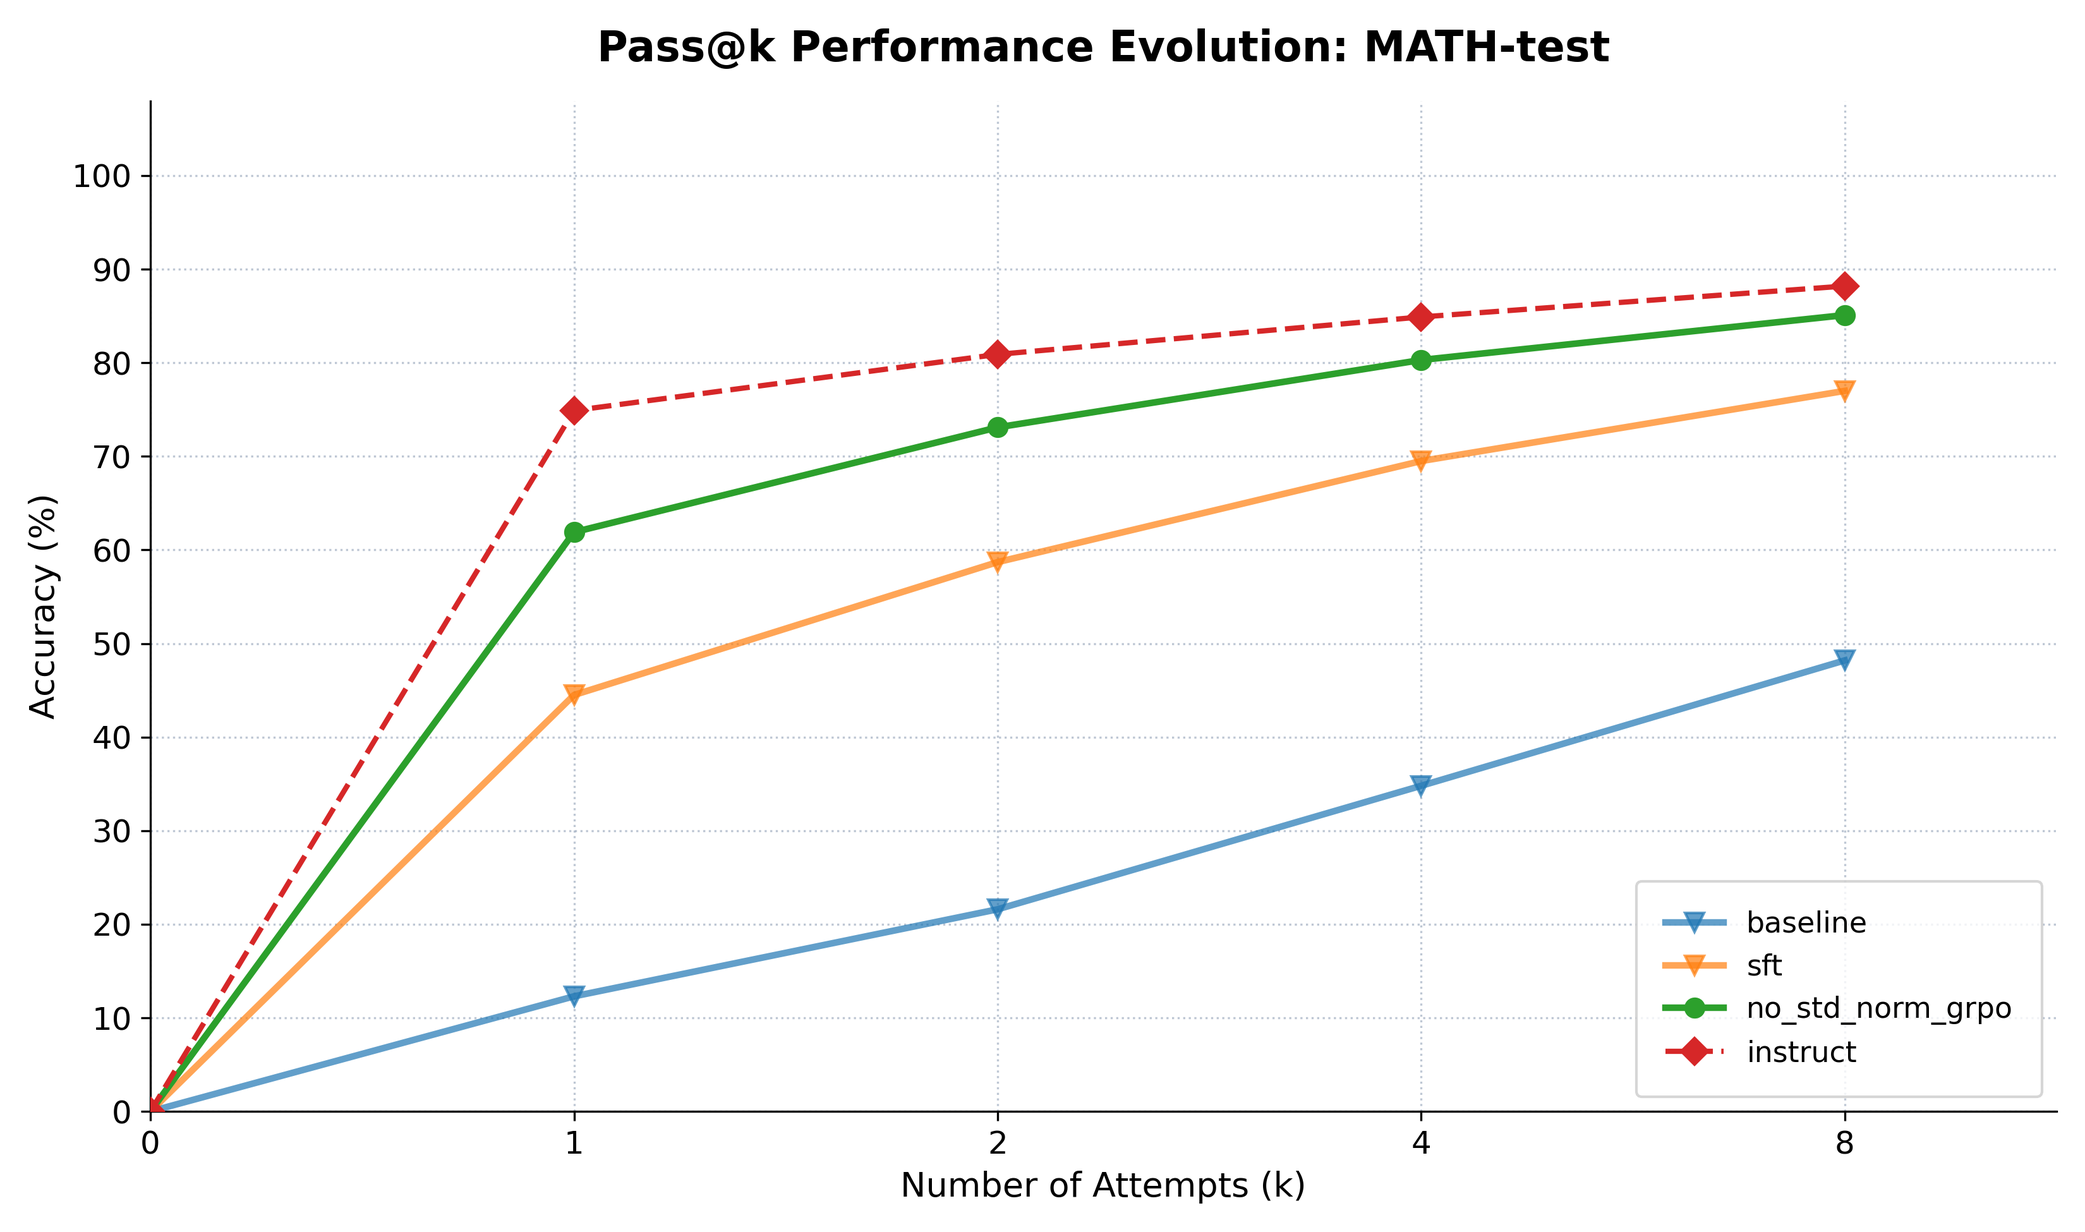
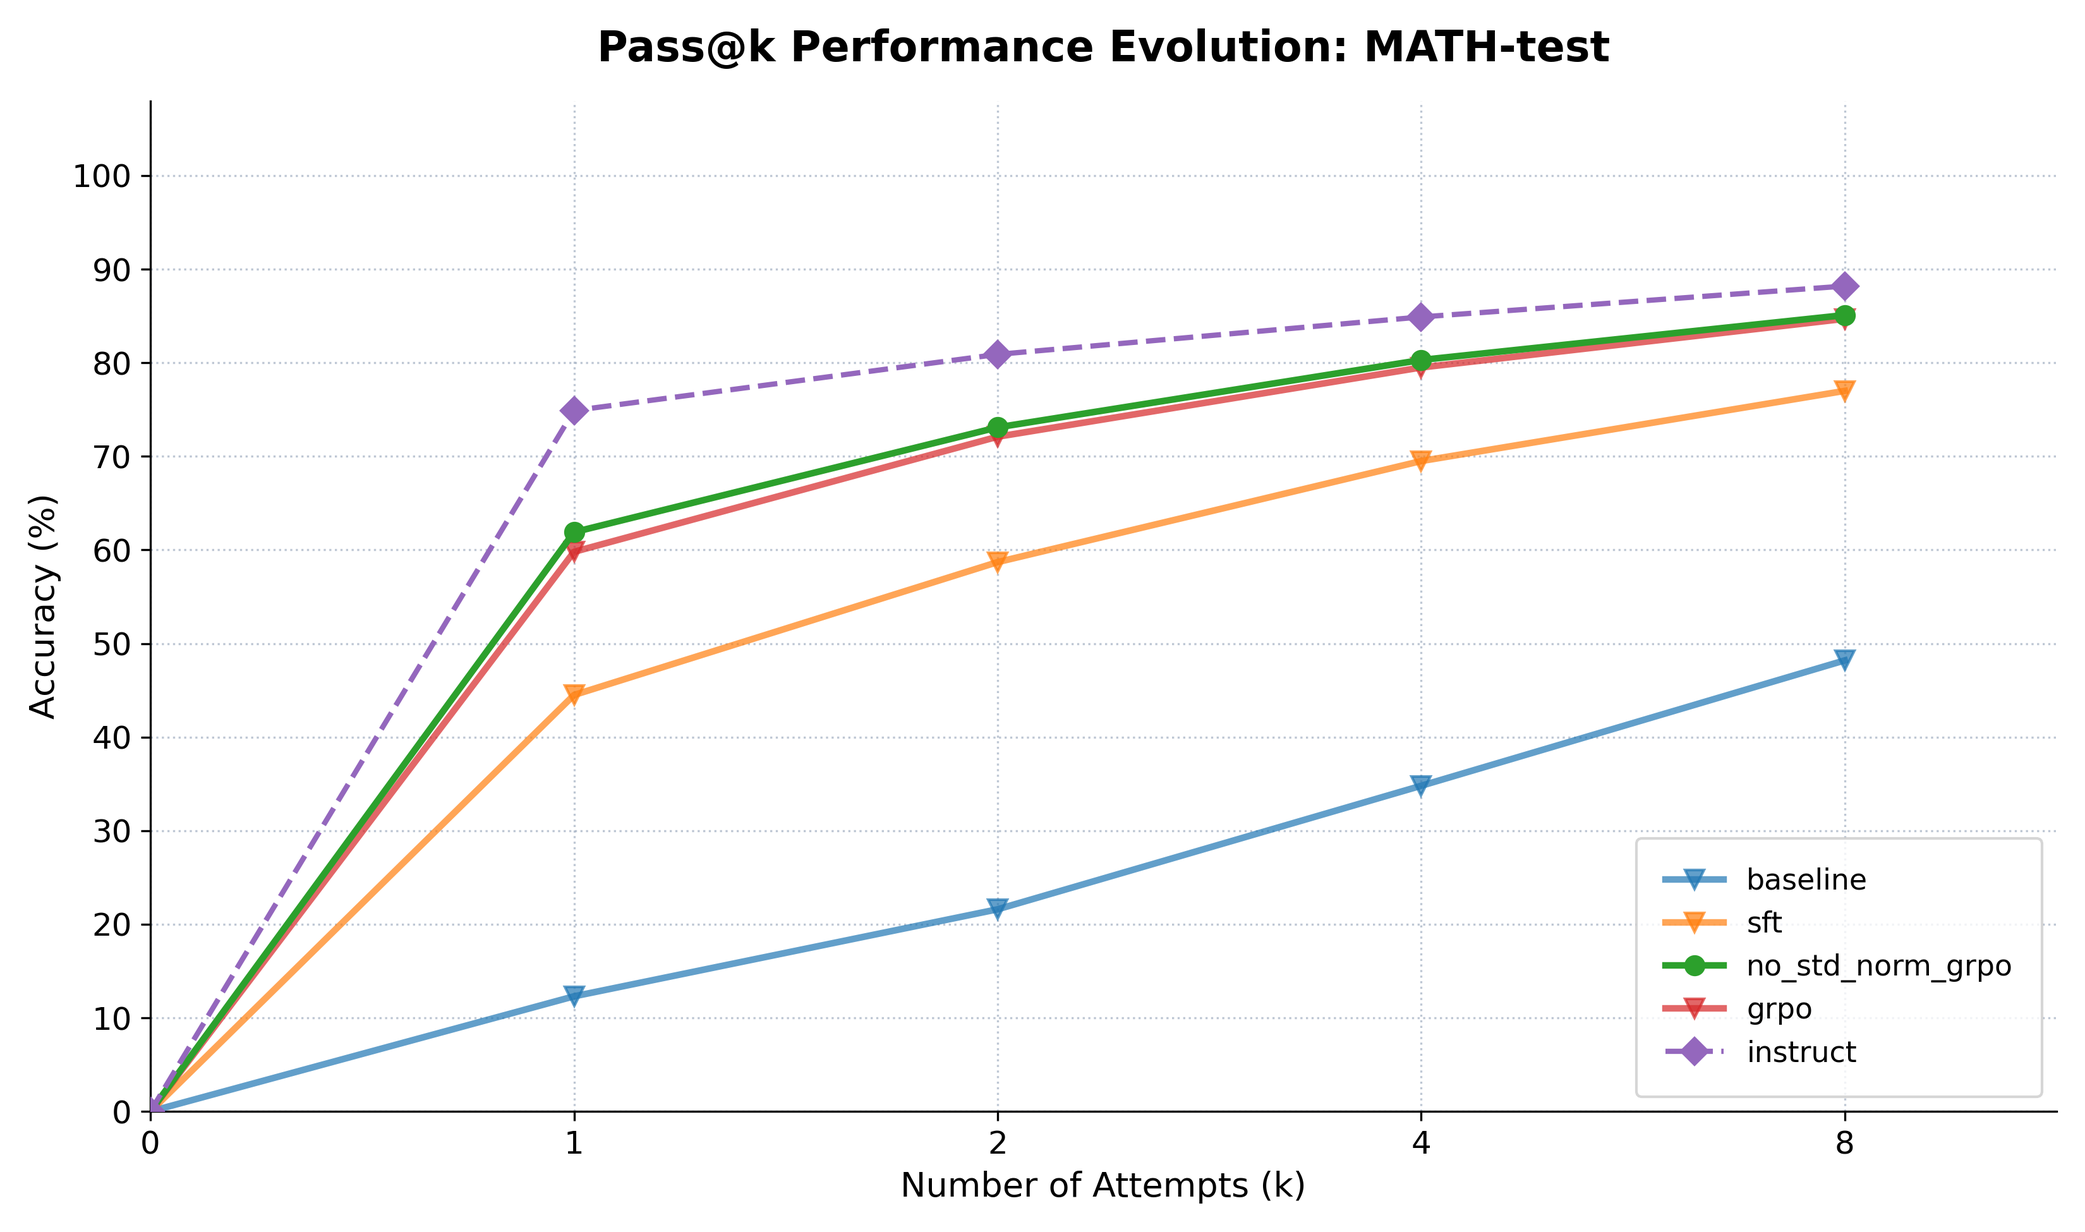
update readme

diff --git a/assignment5-alignment/cs336_alignment/plot_passk.py b/assignment5-alignment/cs336_alignment/plot_passk.py
@@ -213,6 +213,7 @@ def plot_pass_k_curve(results_list, task_name: str, show_k_list=[1, 2, 4, 8]):
         os.makedirs(save_dir)
 
     save_name = f'{task_name} Pass@{show_k_list[-1]}对比图.png'
+    # save_name = f'{task_name} Pass@{show_k_list[-1]}对比图-无标注.png'
     save_path = os.path.join(save_dir, save_name)
     plt.savefig(save_path, dpi=300)
     print(f"图表已成功保存至: {save_path}")
@@ -221,6 +222,7 @@ if __name__ == "__main__":
     baseline_full_pass8_result = {'baseline': (0.123, 0.216, 0.294, 0.348, 0.392, 0.428, 0.454, 0.482)}
     sft_full_pass8_result      = {'sft'     : (0.445, 0.587, 0.654, 0.695, 0.722, 0.743, 0.758, 0.770)}
     no_std_norm_grpo_full_pass8_result   = {'no_std_norm_grpo'  : (0.619, 0.731, 0.780, 0.803, 0.821, 0.833, 0.843, 0.851)}
+    grpo_full_pass8_result = {'grpo': (0.598, 0.721, 0.769, 0.795, 0.814, 0.825, 0.838, 0.847)}
 
     baseline_500_pass64_result = {'baseline': (0.144, 0.262, 0.320, 0.414, 0.482, 0.524, 0.578, 0.614,
                                                0.642, 0.664, 0.700, 0.710, 0.714, 0.734, 0.750, 0.758,
@@ -240,7 +242,8 @@ if __name__ == "__main__":
                                                0.982, 0.982, 0.982, 0.982, 0.982, 0.982, 0.982, 0.982,
                                                0.982, 0.982, 0.982, 0.982, 0.982, 0.982, 0.982, 0.982)}
 
-    no_std_norm_grpo_500_pass64_result   = {'no_std_norm_grpo'  : (0.834, 0.916, 0.952, 0.956, 0.962, 0.966, 0.966, 0.968,
+    no_std_norm_grpo_500_pass64_result   = {'no_std_norm_grpo'  :
+                                              (0.834, 0.916, 0.952, 0.956, 0.962, 0.966, 0.966, 0.968,
                                                0.968, 0.972, 0.974, 0.974, 0.974, 0.974, 0.974, 0.974,
                                                0.974, 0.976, 0.976, 0.976, 0.976, 0.976, 0.976, 0.976,
                                                0.976, 0.976, 0.976, 0.976, 0.976, 0.978, 0.978, 0.980,
@@ -269,7 +272,8 @@ if __name__ == "__main__":
                                                  0.233, 0.233, 0.267, 0.267, 0.267, 0.267, 0.267, 0.267)}
 
 
-    no_std_norm_grpo_aime24_pass64_result  = {'no_std_norm_grpo':   (0.033, 0.033, 0.067, 0.133, 0.133, 0.167, 0.167, 0.200,
+    no_std_norm_grpo_aime24_pass64_result  = {'no_std_norm_grpo':
+                                                (0.033, 0.033, 0.067, 0.133, 0.133, 0.167, 0.167, 0.200,
                                                  0.200, 0.200, 0.233, 0.233, 0.267, 0.300, 0.333, 0.367,
                                                  0.367, 0.367, 0.367, 0.367, 0.367, 0.367, 0.367, 0.367,
                                                  0.367, 0.367, 0.367, 0.367, 0.400, 0.400, 0.400, 0.400,
@@ -298,7 +302,8 @@ if __name__ == "__main__":
                                                  0.233, 0.233, 0.233, 0.233, 0.233, 0.233, 0.233, 0.233,
                                                  0.233, 0.233, 0.233, 0.233, 0.233, 0.233, 0.233, 0.233)}
 
-    no_std_norm_grpo_aime25_pass64_result = {'no_std_norm_grpo'   : (0.033, 0.100, 0.100, 0.100, 0.167, 0.167, 0.200, 0.200,
+    no_std_norm_grpo_aime25_pass64_result = {'no_std_norm_grpo'   :
+                                                (0.033, 0.100, 0.100, 0.100, 0.167, 0.167, 0.200, 0.200,
                                                  0.200, 0.200, 0.233, 0.233, 0.233, 0.233, 0.233, 0.233,
                                                  0.233, 0.233, 0.233, 0.233, 0.233, 0.233, 0.233, 0.233,
                                                  0.267, 0.267, 0.267, 0.267, 0.267, 0.267, 0.267, 0.267,
@@ -325,7 +330,8 @@ if __name__ == "__main__":
                                                  0.699, 0.699, 0.699, 0.699, 0.699, 0.711, 0.711, 0.723,
                                                  0.723, 0.735, 0.735, 0.735, 0.735, 0.735, 0.735, 0.735)}
 
-    no_std_norm_grpo_AMC12_pass64_result   = {'no_std_norm_grpo'  : (0.325, 0.398, 0.470, 0.530, 0.554, 0.566, 0.566, 0.590,
+    no_std_norm_grpo_AMC12_pass64_result   = {'no_std_norm_grpo'  :
+                                                (0.325, 0.398, 0.470, 0.530, 0.554, 0.566, 0.566, 0.590,
                                                  0.602, 0.614, 0.627, 0.627, 0.651, 0.663, 0.675, 0.675,
                                                  0.675, 0.675, 0.687, 0.699, 0.699, 0.699, 0.699, 0.699,
                                                  0.699, 0.723, 0.723, 0.723, 0.723, 0.723, 0.723, 0.723,
@@ -409,7 +415,7 @@ if __name__ == "__main__":
 
 
 
-    math_full_pass8_results  = [baseline_full_pass8_result, sft_full_pass8_result, no_std_norm_grpo_full_pass8_result, instruct_math_pass8_result]
+    math_full_pass8_results  = [baseline_full_pass8_result, sft_full_pass8_result, no_std_norm_grpo_full_pass8_result, grpo_full_pass8_result, instruct_math_pass8_result]
     math500_pass64_results   = [baseline_500_pass64_result, sft_500_pass64_result, no_std_norm_grpo_500_pass64_result, grpo_500_pass64_result, instruct_500_pass64_result]
     amc12_pass64_results     = [baseline_AMC12_pass64_result, sft_AMC12_pass64_result, no_std_norm_grpo_AMC12_pass64_result, grpo_AMC12_pass64_result, instruct_AMC_12_pass64_result]
     aime_2025_pass64_results = [baseline_aime25_pass64_result, sft_aime25_pass64_result, no_std_norm_grpo_aime25_pass64_result, grpo_aime25_pass64_result, instruct_aime25_pass64_result]

diff --git a/assignment5-alignment/cs336_alignment/sft.py b/assignment5-alignment/cs336_alignment/sft.py
@@ -163,9 +163,10 @@ def log_generations(
     #     ans_end_id = tokenizer.convert_tokens_to_ids("</answer>")
     #     print(f"Eval Tokenizer </answer> ID: {ans_end_id}")
     #     if ans_end_id == tokenizer.unk_token_id:
-    #         print("❌ FATAL: 评估脚本用的 Tokenizer 不认识 </answer>")
+    #         print("FATAL: 评估脚本用的 Tokenizer 不认识 </answer>")
     # except:
-    #     print("❌ FATAL: Tokenizer 出错")
+    #     print("FATAL: Tokenizer 出错")
+
     # 随机抽样
     n = min(num_examples_to_log, len(prompts))
     indices = random.sample(range(len(prompts)), n)
@@ -240,9 +241,11 @@ def log_generations(
         # print(f"Tail Decode: {tokenizer.decode(outputs.sequences[0][-20:], skip_special_tokens=False)}")
         # ans_end_id = tokenizer.convert_tokens_to_ids("</answer>")
         # if ans_end_id in generated_ids:
-        #     print(f"✅ 模型确实生成了 ID {ans_end_id}！是解码或Reward函数的问题。")
+        #     print(f"模型确实生成了 ID {ans_end_id}, 是解码或Reward函数的问题。")
         # else:
-        #     print(f"❌ 模型根本没生成 ID {ans_end_id}！是训练的问题。")
+        #     print(f"模型根本没生成 ID {ans_end_id}, 是训练的问题。")
+
+
         print("-" * 40)
         print(f" Prompt: {prompt[:50]}...")
         print(f"Generated: {generated_text[-100:]}... (Len: {len(generated_ids)})")

diff --git a/readme.md b/readme.md
@@ -1,80 +1,106 @@
-# CS336：语言模型 (2025春季)
+# CS336：大语言模型系统与对齐 (Stanford Spring 2025 实现与扩展)
 
 ![Course Status](https://img.shields.io/badge/Course-CS336_Spring_2025-cardinal)
 ![Language](https://img.shields.io/badge/Python-3.10%2B-blue)
 ![Framework](https://img.shields.io/badge/PyTorch-2.x-orange)
 
-本仓库包含我在自学 **Stanford CS336: Language Modeling** 课程中的作业实现代码。该课程涵盖了大型语言模型 (LLM) 的全生命周期，包括从零构建架构、系统优化、数据工程、扩展定律 (Scaling Laws) 以及后训练对齐 (Post-training Alignment)。
+本仓库包含我在学习斯坦福 CS336 课程中的核心实现。
+
+**不仅仅是完成作业**，本项目旨在以**生产级标准**重构和扩展课程内容。在完成标准教学要求的基础上，重点进行了**底层系统的性能优化（System Optimization）**、**关键架构的消融实验（Ablation Studies）**，并在消费级显卡上成功**复现了 DeepSeek R1-Zero** 等 SOTA 对齐算法。
 
 **课程网站：** [https://stanford-cs336.github.io/spring2025/](https://stanford-cs336.github.io/spring2025/)
 
-## 项目进度
 
-| 作业                                           | 主题                          |   状态   |
-| :--------------------------------------------- | :---------------------------- | :------: |
-| **Assignment 1** (整理中)                      | 基础：构建 Transformer LM     | &#x2705; |
-| **Assignment 2**                               | 系统：优化与并行计算          | &#9744;  |
-| **Assignment 3** (无法完成，需要斯坦福专属API) | 扩展：Scaling Laws 与计算预算 | &cross;  |
-| **Assignment 4** (整理中)                      | 数据：过滤与去重              | &#x2705; |
-| **Assignment 5** (整理中)                      | 对齐：推理与强化学习 (GRPO)   | &#x2705; |
 
----
+## 核心亮点与独创性工作
 
-## 作业详情
+*以下模块均在课程基础要求之上进行了深度扩展，是本项目的核心工程价值。*
 
-### 1. Assignment 1: Basics (构建 Transformer)
-**目标：** 完全使用 PyTorch 从零开始构建一个现代的 Decoder-only Transformer 语言模型（不使用 `nn.Linear` 或 `nn.Transformer` 等高级层）
+### 1. 复现 DeepSeek R1-Zero：单卡训练推理模型
 
-* **核心组件：**
-    * 在 TinyStories 数据集上实现 **BPE 分词器**（训练与编码/解码）。
-    * 构建现代 **Transformer 架构**组件：Embeddings, RMSNorm, SwiGLU 激活函数, RoPE (旋转位置编码), 以及因果多头自注意力机制 (Causal Multi-Head Self-Attention) 
-    * 实现训练基础设施：交叉熵损失函数, **AdamW 优化器**, 以及学习率调度器。
-    * **文本生成：** 实现解码策略，包括温度缩放 (Temperature scaling) 和 Top-p (Nucleus) 采样。
+> **关键词：** SFT, GRPO, 单卡优化, 数学推理
+>
+> 🔗 **[浏览项目详情](/assignment5-alignment)**
 
-### 2. Assignment 2: Systems (优化与并行)
-**目标：** 优化 Transformer 的单 GPU 性能并将训练扩展到多 GPU 环境。
+在**单张 RTX 4090 (48GB)** 上成功复现了 **DeepSeek R1-Zero** 的训练流程，将 Qwen-2.5-Math-1.5B 模型的数学推理能力（MATH-500 Pass@1）从 2.8% 提升至 **83.4%**。
 
-* **核心组件：**
-    * **性能分析：** 使用 Python 工具和 **NVIDIA Nsight Systems** 对前向/后向传播进行基准测试，分析计算和内存瓶颈。
-    * **FlashAttention-2：** 实现自定义 **Triton kernel** 以实现内存高效的注意力机制（分块 tiling, 在线 softmax, 重计算）。
-    * **分布式训练：** 从零实现 **分布式数据并行 (DDP)**，处理梯度同步、分桶通信 (bucketed communication) 以及计算/通信重叠。
-    * **优化器分片：** 实现优化器状态分区 (Optimizer Sharding) 以减少跨节点的内存冗余。
+**核心贡献与洞察：**
 
-### 3. Assignment 3: Scaling (扩展定律)
-**目标：** 理解并应用经验扩展定律 (Scaling Laws)，在计算约束下预测最佳模型配置。
+- **Dr. GRPO 算法实现：**摒弃了传统的 Value Model， 实现了**组相对策略优化 (GRPO)**，大幅节省了显存开销，并比对了 "Dr. GRPO" 改进策略（去除 Advantage 标准化和响应长度归一化），
 
-* **核心组件：**
-    * IsoFLOPs 曲线：复现 Chinchilla 扩展定律方法，分析模型大小与数据规模之间的权衡。
-    * **外推预测：** 拟合小规模实验数据的幂律曲线，以预测更大计算预算（$10^{23}$ - $10^{24}$ FLOPs）下的损失。
-    * **最优分配：** 使用 Training API 搜索超参数空间，确定特定预算（$10^{19}$ FLOPs）下的计算最优模型大小和超参数。
+- **vLLM 零开销集成：** 通过 Hack 方式编写 sync_policy_to_vllm 接口，实现了 PyTorch 训练权重到 vLLM 推理引擎的**原地内存同步**，解决了训练与推理框架的显存冲突问题。
 
-### 4. Assignment 4: Data (工程与过滤)
-**目标：** 构建健壮的数据管道，将原始网页抓取数据（Common Crawl）处理为高质量训练数据。
+- **“白金数据”定律：** 发现 **3,000 条高质量/格式清洗数据** 的训练效果远超 25,000 条含噪数据。
 
-* **核心组件：**
-    * **提取：** 使用 Resiliparse 将原始 **WARC/WET** 文件从 HTML 转换为纯文本 。
-    * **过滤管道：** 实现语言识别 (FastText)、**PII 掩码**（邮箱、IP、电话）以及有害内容检测 (NSFW/Toxic 分类器) 。
-    * **质量控制：** 应用Gopher启发式规则并训练基于模型的质量分类器。
-    * **去重：** 实现 **MinHash + LSH** (局部敏感哈希) 以进行大规模模糊文档级去重。
+- **思维链 (CoT) 演化观测：** 观测并记录了模型思维链长度的“倒 U 型”进化过程——从Baseline的直觉式解答，到SFT“机械模仿”导致的冗长重复，最终通过RL收敛为“内化推理”的高效精简。
 
-### 5. Assignment 5: Alignment (推理与 RL)
-**目标：** 使用监督微调 (SFT) 和强化学习 (RL) 训练模型执行数学推理任务。
+  
 
-* **核心组件：**
-    * **评估：** 使用 zero-shot CoT 提示在 MATH 数据集上对 Qwen 2.5 Math 1.5B 进行基准测试。
-    * **SFT：** 使用 DeepSeek R1 生成的推理轨迹 (reasoning traces) 对模型进行微调。
-    * **专家迭代 (Expert Iteration)：** 实现自举 (bootstrapping)，通过学习模型自身生成的正确解来提升推理能力。
-    * **GRPO：** 实现 **组相对策略优化 (Group Relative Policy Optimization)**，这是一种用于推理的 PPO 变体，使用基于组的优势估计而无需价值函数网络 。
+### 2. 工业级数据流水线：高并发、去重与质量过滤
+
+> **关键词：** 数据工程, 分布式系统, MinHash LSH
+>
+> 🔗 **[浏览项目详情](/assignment4-data)**
+
+构建了一个鲁棒的高并发数据处理流水线，旨在从大量原始 Common Crawl WET 文件中清洗出高质量的预训练语料。
+
+**核心贡献与洞察：**
+
+- **高并发架构设计：** 基于 ProcessPoolExecutor 实现全链路并行，引入 **惰性加载 (Lazy Loading)** 和 Linux **写时复制 (COW)** 机制，有效解决了 N-gram 生成阶段的内存爆炸 (OOM) 问题。
+
+- **大规模模糊去重：** 实现了 **MinHash + LSH (局部敏感哈希)** 算法，通过调整 Banding 参数与丢弃超出预设阈值大小的桶解决了“候选对爆炸”问题，实现了高效的文档级去重。
+
+- **“精英 vs. 良好”分类器：** 训练了一个以维基百科引用页为“黄金标准”的 FastText 分类器，成功过滤掉了 83% “及格但平庸”的网页内容。
+
+- **结果验证：** 经本流水线清洗的数据集 (Self-Dataset) 在 C4 验证集上的 Loss 和 Perplexity **均优于 OpenWebText 基线**，证明了“廉价过滤先行，昂贵处理置后”策略的有效性。
+
+  
+
+### 3. 从零构建 Transformer：架构演进与 BPE 高度优化
+
+> **关键词：** 架构分析, 高性能预处理, BPE 算法优化
+>
+> 🔗 **[浏览项目详情](/assignment1-basics)**
+
+使用 PyTorch 原生组件（不依赖高级封装）构建了 Decoder-only Transformer，并进行了深度的架构演进分析。
+
+**核心贡献与洞察：**
+
+- **BPE 分词器工程级重构：** 在朴素BPE分词器实现的基础逻辑上，基于 **倒排索引**、**最小堆** 和 **多进程并行** 重写了 BPE 算法，实现了从“玩具级”到“工业级”的跨越：
+  - **训练效率 (Training):** 在 **10GB+ 全量 OpenWebText** 语料上，仅耗时 **8分30秒** 即完成 32k 词表的构建（相比之下，朴素算法处理 100MB 语料需 50分钟，在大规模数据上实现了数量级的性能飞跃）。
+  - **编码吞吐 (Encoding):** 在 15 vCPU 环境下，对 **27亿 Token (11GB)** 的文本实现了 **15.5M Tokens/s** 的超高吞吐量。
+- **架构演进消融实验：**深度对比 RoPE vs. Sinusoidal、SwiGLU vs. ReLU、RMSNorm vs. LayerNorm，验证了现代架构（Llama-style）的收敛优势。
+
+
+
+## 课程模块与进度
+
+本项目严格遵循 CS336 的课程体系，覆盖了 LLM 从预训练到对齐的全生命周期。
+
+| 模块     | 作业 (Assignment)   | 核心内容                                                     |   状态   |
+| -------- | :------------------ | :----------------------------------------------------------- | :------: |
+| 基础架构 | **A1：Basics**      | **构建 Transformer**<br/>• 手写 Attention, RoPE, RMSNorm, SwiGLU<br/>• 实现 BPE 分词器与 AdamW 优化器<br/>• Top-p / Temperature 采样生成 | &#x2705; |
+| 系统优化 | **A2：Systems**     | **并行与效率**<br/>• 混合精度训练 (AMP)<br/>• 分布式数据并行 (DDP)<br/>• Kernel 优化 | &#9744;  |
+| 扩展定律 | **A3：Scaling**$^*$ | **Scaling Laws**<br/>• 计算预算分配与损失预测                |    ❌     |
+| 数据工程 | **A4：Data**        | **预训练语料处理**<br/>• Resiliparse 提取 WARC/WET<br/>• 多维度质量分类，包括自定义的质量分类器<br/>• MinHash LSH 去重流水线 | &#x2705; |
+| 对齐与RL | **A5：Alignment**   | **推理与强化学习**<br/>• 数学推理任务评测 (MATH)<br/>• 监督微调 (SFT)<br/>• 强化学习 (GRPO/R1-Zero) | &#x2705; |
+
+*注：Assignment 3 因需要斯坦福内部 API 无法完成；Assignment 2 正在规划中。*
 
 ---
 
 ## 设置与使用
 
-本项目使用 `uv` 进行依赖管理。
+本项目使用 `uv` 进行现代化的 Python 依赖管理。
 
 ```bash
-# 安装依赖
-uv sync
+# 1. 安装环境与依赖
+pip install uv
 
-# 运行特定作业的测试
-uv run pytest tests/test_assignment_name.py
+
+# 在对应文件夹同步环境与运行特定作业的测试
+cd ./assignment1-data
+uv sync
+uv run pytest # 运行全部测试
+uv run pytest -k tests/test_assignment_name.py # 运行单个测试
+```
